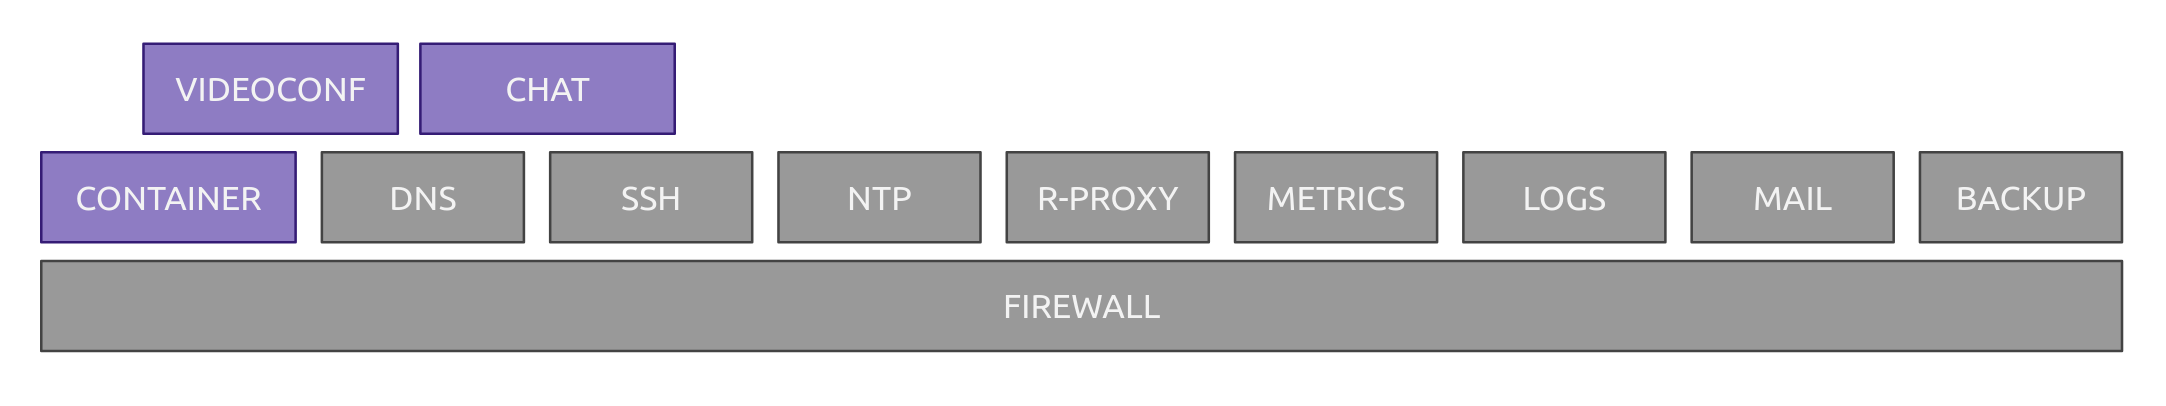
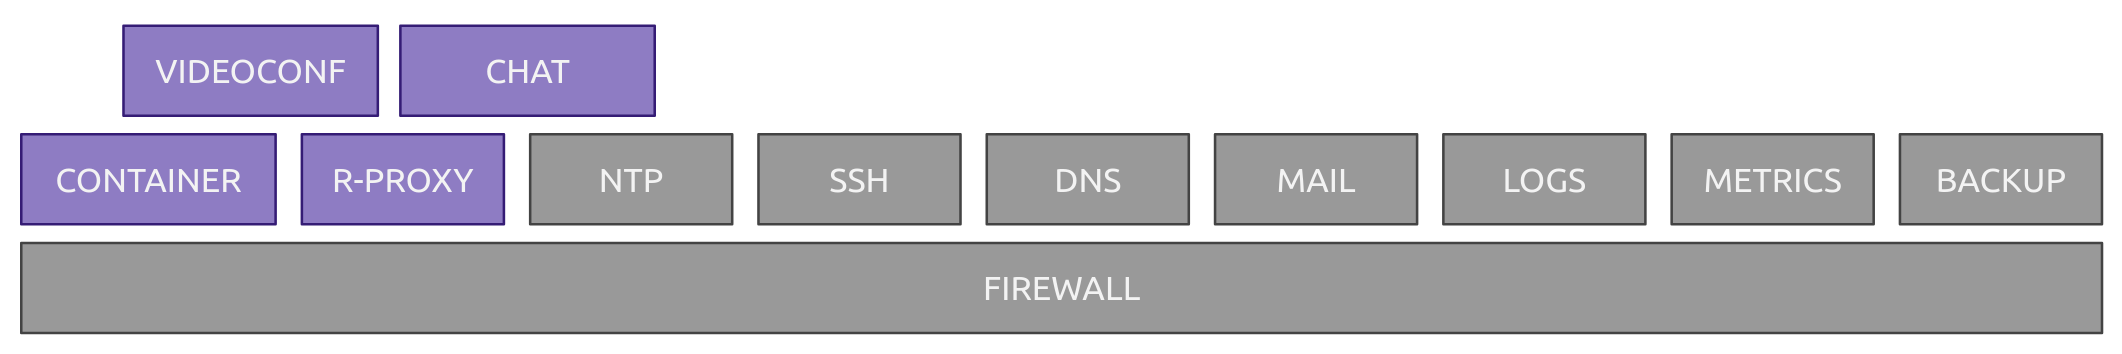
doc

Changed region(s): [[0.0, 0.3729, 0.9953, 0.9633], [0.0311, 0.0621, 0.311, 0.3418]]

diff --git a/README.md b/README.md
@@ -4,126 +4,53 @@
 
 ![galaxie](docs/images/big_picture.png)
 
-### Core services (GREY)
+## Trunk instances
 
-* **NTP**: Based on `ntpd`
-* **DNS**: Based on `bind`
-* **MAIL**: Based on `postfix + dovecot`
-* **R-PROXY** ``nginx``
-* **BACKUP**: Based on [Borg](https://www.borgbackup.org/)
-
-##### Branch Stub
-
-* **TFTP**: Based on `tfpd`. Using the role [Bert Van Vreckem tftp role](https://github.com/bertvv/ansible-role-tftp).
-* **PXE**: Based on `pxelinux`. Using the role [Bert Van Vreckem pxe server role](https://github.com/bertvv/ansible-role-pxeserver).
-* **DHCP**: Based on `dpcpd`. Using the role [Bert Van Vreckem dhcp role](https://github.com/bertvv/ansible-role-dhcp).
-
-#### Broadcast (PURPLE)
-
-* **VIDEOCONF**: ``Jitsi``
-* **CHAT**: ``Mattermost``
-* **WEBSERVER** ``nginx``
-* **MEDIA-STREAMING**: ``peertube``
-* **RDBMS**: Based on `mariadb`. Using the role [Bert Van Vreckem mariadb server role](https://github.com/bertvv/ansible-role-mariadb).
-
-
-### Family - Galaxie Home
-
-Look like it's not that important, but that really matters for family members.
-
-* **TELEPHONY**: ``asterisk``
-* **SHARE**: ``samba`` - https://github.com/bertvv/ansible-role-samba
-* **RPITVOS**: ``Libreelec`` -
-* **PVR**: ``TVHeadend`` -
-* **FIREWALL** ``OPNSense`` -
-* **VPN** ``OPNSense`` -
-
-Once upon a time, this project was hosted on a ancient platform called GitHub. Then came the Buyer.
-The Buyer bought GitHub, willing to rule over its community. We were not to sell, so here is the new home of "https://github.com/Tuuux/galaxie".
-
-Ansible toolbox aimed at managing a set of Debian servers. Originaly written for managing a Home Network with external services.
-
-That is a set of powerfull roles made by a senior system admin and reviewed by a senior developer.
-
-Galaxie is a true mix of the two world, by luck author Tuux and Mo have made the necessary to have no compromise.
-
-Do you know a lot of Ansible roles which verify your DHCP client settings after having touched your /etc/resolv.conf ?
-
-- Pure System Admin compliance
-- Pure Syntax Devs compliance
-
-It will be an honor if you take our work as an example, our roles are correct from a sysadmin point of view.
-
-All our Work is published under GPLv3.
-
-
-## How the Magic happen
-
-```
-./galaxie
-├── ansible.cfg    (Config file for ansible setting)
-├── hosts          (Config file for ansible inventory file)
-├── group_vars     (Ansible Group Vars directory, The groupe.yml file can store dedicated group of host vars)
-├── host_vars      (Ansible Host Vars directory, The hostname.yml file can store dedicated host vars)
-├── keys           (Directory where is generate and store SSH private and pub keys)
-├── playbooks      (Directory where Ansible Playbooks are store)
-├── roles          (Directory where Ansible Roles are store)
-├── secrets        (Directory where is store password)
-└── zone_files     (Directory where is store primary and secondary DNS zone files)
-```
-
-## Bootstrap - DEPRECATED
-
-We use a bootstrap playbook for new host addition.
-
-* define the variable `galaxie_user` either in your `./hosts` or group_vars. Does not matter where, but have it defined when launching the integration playbook.
-* Add you host and all its connection vars to your `./hosts` file in the `[galaxie_staging]` group
-* run `ansible-playbook playbooks/server_bootstrap.yml`
-
-That will give you:
-
-* `galaxie_user` access to host
-* a key in `./keys` for this host
-* a file in `./secrets` with galaxie user password
-* a file in `./host_vars_` with correct connection options for this hosts
-
-After this you can move your host out of the `[galaxie_staging]` group and put it in its right place in your inventory and start hacking around with it.
-
-
-# Notes
-
-* terminal d'admin opérable depuis une clé live Tails avec les clés d'accès vers l'instance qui porte
-* session de génération de clé sur un host deconnecté du reseau depuis une live usb tail
-
-prereq: host avec 2 port usb un pour demarrer tail l'autre pour récupérer se clé perso
-
-etablir un lien passe par une clé rsa de connexion sur une home avec un minimum de droits, contenant directement
-les variables et un trigger ssh
-
-prereq: exposition d'un enregistrement clan.<domain> sur la zone DNS publique
- pointe vers un host qui expose le port SSH d'admin
-
-## Making a clan alliance
-
-* New ally clan gives you a public ssh key.
-* Put it under `keys/<YOUR_CLAN_NAME>/allies/<THEIR_CLAN_NAME>.pub`
-* Add THEIR_CLAN_NAME to the host inventory under the group `[<YOU_CLAN_NAME>_allies]`
-* Run `ansible-playbook playbooks/clan-establish.yml`
-
-Now they can connect via ssh to get the minimal infos to configure themselves as your secondary on several services.
-
-## Tools
-
-* **Apply a role to 'clans'**: `make apply-role -e name=<role_name> -e to=`
-
-## TODO
-
-* playbook pour initier un nouveau clan et preparer les repertoire, generer les keys,
-* les fichier de group vars : guide pour savoir où surcharger 'clan_allies_export' (à savoir dans le fichier de group_var du clan qui exporte
-
-# Ansible coding guidelines
-
-# Prerequisites
+### Prerequisites
 
 * Debian 10 with ipv4 and ipv6 interface
 * SSH access: root or full sudo
+
+### Core services (GREY)
+
+* **NTP**: Based on `ntpd`
+* **SSH**: Based on `openssh`
+* **DNS**: Based on `bind`
+* **MAIL**: Based on `postfix + dovecot`
+* **LOGS**: Based on `rsyslog`
+* **METRICS**: Based on `netdata`
+* **BACKUP**: Based on [Borg](https://www.borgbackup.org/)
+
+#### Broadcast services (PURPLE)
+
+* **VIDEOCONF**: ``Jitsi``
+* **CHAT**: ``Mattermost``
+* **R-PROXY** ``nginx``
+
+## Branch instances
+
+### Core services (GREY)
+
+* **Trunk Core Services**
+* **TFTP**: Based on `tfpd`
+* **PXE**: Based on `pxelinux`
+* **DHCP**: Based on `dhcpd`
+* **TELEPHONY**: ``asterisk``
+* **SHARE**: ``samba``
+* **RPITVOS**: ``Libreelec``
+* **PVR**: ``TVHeadend``
+* **FIREWALL** ``OPNSense``
+* **VPN** ``OPNSense``
+
+## Once upon a time...
+
+Once upon a time, this project was hosted on a ancient platform called GitHub. Then came the Buyer. The Buyer bought GitHub, willing to rule over its community. We were not to sell, so here is the new home of "https://github.com/Tuuux/galaxie".
+
+Ansible toolbox aimed at managing a set of Debian servers. Originaly written for managing a Home Network with external services. That is a set of powerfull roles made hand-in-hand by a senior system admin and a senior developer.
+
+Galaxie is a true mix of the two world, by luck author Tuux and Mo have made the necessary to have no compromise.
+
+* Pure System Admin compliance
+* Pure Syntax Devs compliance
+
+It will be an honor if you could use our work in any way. Be it as-is or as code samples.
